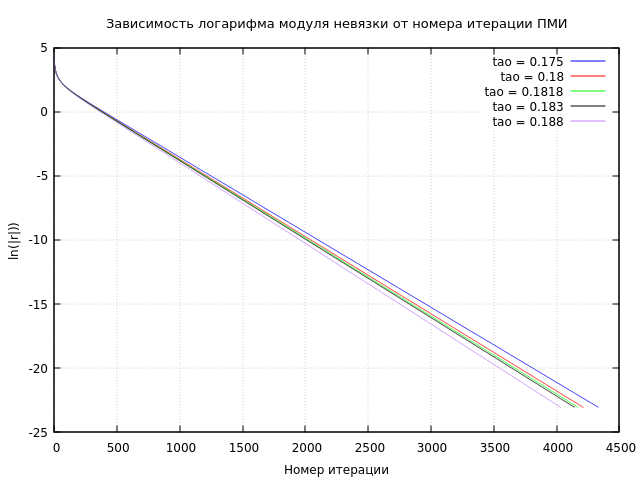
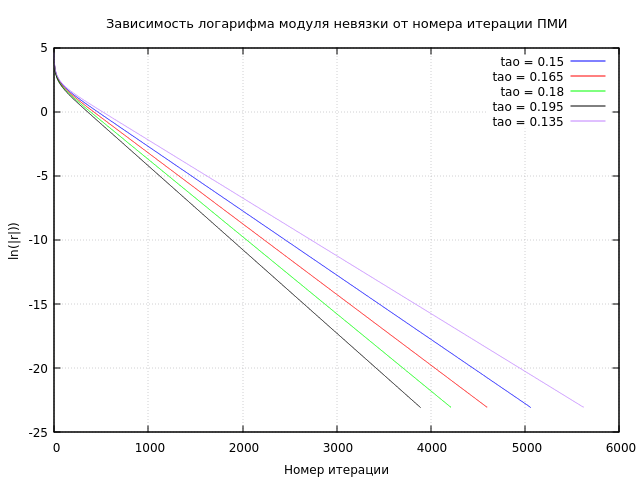
come changes

diff --git a/Tests/Tests.h b/Tests/Tests.h
@@ -19,6 +19,67 @@
 #include "../Sparse/CSR.h"
 #include "../Sparse/SimpleIteration.h"
 
+
+void testMultiply_Time(size_t dim){     //тест скорость умножения плотной и разреженной матрицы на вектор
+    std::vector<std::pair<int, double>> plotDataDense;
+    std::vector<std::pair<int, double>> plotDataCSR;
+    std::vector<double> d(dim);
+    std::vector<double> c(dim);
+    std::ofstream fout;
+    fout.open("../PlotData/MultiplyTime/Dense.txt", std::ios::out);
+    fout.close();
+    fout.open("../PlotData/MultiplyTime/CSR.txt", std::ios::out);
+    fout.close();
+    for(size_t i = 1; i<=dim*dim/2; ++i) {
+        std::set<Triplet<double>> in = GenerateMatrix_FilledNumber<double>(dim, i, -10000, 10000);
+        DenseMatrix<double> D(dim, dim, in);
+        CSR<double> C(dim, dim, in);
+        std::vector<double> b = GenerateVector<double>(dim, -10000, 10000);
+        clock_t end, start = clock();
+        d = D*b;
+        end = clock();
+        fout.open("../PlotData/MultiplyTime/Dense.txt", std::ios::app);
+        fout<<i<<" "<<double(end - start) / CLOCKS_PER_SEC<<"\n";
+        fout.close();
+        start = clock();
+        c = C*b;
+        end = clock();
+        fout.open("../PlotData/MultiplyTime/CSR.txt", std::ios::app);
+        fout<<i<<" "<<double(end - start) / CLOCKS_PER_SEC<<"\n";
+        fout.close();
+        std::cout<<d<<c<<std::endl;
+        std::cout<<i<<"\n";
+    }
+    Gnuplot gp;
+    gp<<"set xlabel 'Число ненулевых элементов' \n"
+        "set ylabel 'Время умножения'\n"
+        "set grid\n"
+        "set title 'Зависимость времени умножения матрицы на плотный вектор от заполненности' font 'Helvetica Bold, 10'\n";
+    gp << "plot '../PlotData/MultiplyTime/Dense.txt' with lines title 'Dense' lc rgb 'blue',"
+          "     '../PlotData/MultiplyTime/Dense.txt' with lines title 'CSR' lc rgb 'red'\n";
+}
+
+void testIterNumber_Tao(){
+    std::set<Triplet<double>> in;
+    std::vector<double> b(300);
+    for(size_t i = 1; i <= 300; ++i){
+        in.insert({double(i)/30, i-1, i-1});
+        b[i-1] = double(301-i)/30;
+    }
+    CSR<double> A = CSR<double>(300, 300, in);
+    for(int i = 1; i <= 500; ++i){
+        SimpleIteration(A, b, 0.19894 +  double(i) / 1000000);
+    }
+
+/*    Gnuplot gp;
+    gp<<"set xlabel 'Тао' \n"
+        "set ylabel 'Число итераций'\n"
+        "set xrange [0.03:0.22]\n"
+        "set grid\n"
+        "set title 'Зависимость числа итераций от Тао для схождения с точностью 1e-12' font 'Helvetica Bold, 10'\n";
+    gp << "plot '../PlotData/SimpleIteration/IterNumbTao.txt' with lines title 'Taо -> IterNumb' lc rgb 'blue'\n";*/
+}
+
 void testSimpleIteration_Speed(){
     std::set<Triplet<double>> in;
     std::vector<double> b(300);
@@ -28,22 +89,22 @@ void testSimpleIteration_Speed(){
     }
     CSR<double> A = CSR<double>(300, 300, in);
     //std::vector<double> tao = {0.01, 0.02, 0.03, 0.05, 0.07, 0.1, 0.13, 0.15, 0.17, 0.18, 0.185, 0.19, 0.20, 0.23, 0.26, 0.31, 0.4, 0.5, 0.6, 0.7, 0.8, 0.9};
-    std::cout<<SimpleIteration(A, b, 0.175);
+    std::cout<<SimpleIteration(A, b, 0.15);
+    std::cout<<SimpleIteration(A, b, 0.165);
     std::cout<<SimpleIteration(A, b, 0.18);
-    std::cout<<SimpleIteration(A, b, 0.1818);
-    std::cout<<SimpleIteration(A, b, 0.183);
-    std::cout<<SimpleIteration(A, b, 0.188);
+    std::cout<<SimpleIteration(A, b, 0.195);
+    std::cout<<SimpleIteration(A, b, 0.135);
 
     Gnuplot gp;
     gp<<"set xlabel 'Номер итерации' \n"
         "set ylabel 'ln(|r|))'\n"
         "set grid\n"
         "set title 'Зависимость логарифма модуля невязки от номера итерации ПМИ' font 'Helvetica Bold, 10'\n";
-    gp << "plot '../PlotData/SimpleIteration/SimpleIteration_Speed0.175000.txt' u 1:2 with lines title 'tao = 0.175' lc rgb 'blue', "
-          "     '../PlotData/SimpleIteration/SimpleIteration_Speed0.180000.txt' u 1:2 with lines title 'tao = 0.18' lc rgb 'red', "
-          "     '../PlotData/SimpleIteration/SimpleIteration_Speed0.181800.txt' u 1:2 with lines title 'tao = 0.1818' lc rgb 'green', "
-          "     '../PlotData/SimpleIteration/SimpleIteration_Speed0.183000.txt' with lines title 'tao = 0.183' lc rgb 'black', "
-          "     '../PlotData/SimpleIteration/SimpleIteration_Speed0.188000.txt' with lines title 'tao = 0.188' lc rgb 'purple'\n";
+    gp << "plot '../PlotData/SimpleIteration/SimpleIteration_Speed0.150000.txt' u 1:2 with lines title 'tao = 0.15' lc rgb 'blue', "
+          "     '../PlotData/SimpleIteration/SimpleIteration_Speed0.165000.txt' u 1:2 with lines title 'tao = 0.165' lc rgb 'red', "
+          "     '../PlotData/SimpleIteration/SimpleIteration_Speed0.180000.txt' u 1:2 with lines title 'tao = 0.18' lc rgb 'green', "
+          "     '../PlotData/SimpleIteration/SimpleIteration_Speed0.195000.txt' u 1:2 with lines title 'tao = 0.195' lc rgb 'black', "
+          "     '../PlotData/SimpleIteration/SimpleIteration_Speed0.135000.txt' u 1:2 with lines title 'tao = 0.135' lc rgb 'purple'\n";
 
 }
 

diff --git a/main.cpp b/main.cpp
@@ -14,6 +14,7 @@
 #include "Dense/ThomasAlgorithm.h"
 #include "Dense/LU.h"
 #include "Tests/Tests.h"
+#include "Dense/Householder.h"
 #include <ctime>
 #include <fstream>
 
@@ -26,7 +27,22 @@ int main() {
     CSR<int> K = CSR<int>(3, 3, in1);
     K.print();
     */
-    testSimpleIteration_Speed();
+
+    Gnuplot gp;
+    gp<<"set xlabel 'Число ненулевых элементов' \n"
+        "set ylabel 'Время умножения'\n"
+        "set xrange [0:150000]\n"
+        "set yrange [0:0.003]\n"
+        "set grid\n"
+        "set title 'Зависимость времени умножения матрицы на плотный вектор от заполненности' font 'Helvetica Bold, 10'\n";
+    gp << "plot '../PlotData/MultiplyTime/Dense.txt' u 1:2 with lines title 'Dense' lc rgb 'blue',"
+          "     '../PlotData/MultiplyTime/CSR.txt' u 1:2 with lines title 'CSR' lc rgb 'red'\n";
+/*    Gnuplot gp;
+    gp<<"set xlabel 'Тао' \n"
+        "set ylabel 'Число итераций'\n"
+        "set grid\n"
+        "set title 'Зависимость числа итераций от Тао для схождения с точностью 1e-12' font 'Helvetica Bold, 10'\n";
+    gp << "plot '../PlotData/SimpleIteration/EpsilonNumbTao.txt' with lines title 'Taо -> IterNumb' lc rgb 'blue'\n";*/
     return 0;
 }
 

diff --git a/Sparse/SimpleIteration.h b/Sparse/SimpleIteration.h
@@ -9,7 +9,6 @@
 #include "../utility/gnuplot-iostream.h"
 template<typename T>
 std::vector<T> SimpleIteration(const CSR<T> &A, const std::vector<T> &b, const T &tao){
-    using elm_t = typename CSR<T>::elm_t;
 
     std::vector<T> x(A.sizeH());
     std::vector<T> r = A * x - b;
@@ -25,6 +24,13 @@ std::vector<T> SimpleIteration(const CSR<T> &A, const std::vector<T> &b, const T
         std::cout<<N<<std::endl;
     }
 
+
+    std::ofstream fout;
+    fout.open("../PlotData/SimpleIteration/IterNumbTao.txt", std::ios::app);
+    fout<<tao<<" "<<i<<"\n";
+    fout.close();
+
+/*
     std::ofstream fout("../PlotData/SimpleIteration/SimpleIteration_Speed" + std::to_string(tao) + ".txt");
     for(auto k: plotData){
         fout<<k.first<<" "<<k.second<<"\n";
@@ -37,7 +43,7 @@ std::vector<T> SimpleIteration(const CSR<T> &A, const std::vector<T> &b, const T
         "set grid\n"
         "set title 'Зависимость логарифма модуля невязки от номера итерации ПМИ' font 'Helvetica Bold, 10'\n";
     gp << "plot '-' with lines title 'Iter->ln(|r|)' lc rgb 'blue'\n";
-    gp.send1d(plotData);
+    gp.send1d(plotData);*/
     return x;
 }
 

diff --git a/Generators/RandMatrixGenerator.h b/Generators/RandMatrixGenerator.h
@@ -20,4 +20,13 @@ std::set<Triplet<T>> GenerateMatrix(const size_t& size, const int &a, const int 
     return out;
 }
 
+template<typename T>
+std::set<Triplet<T>> GenerateMatrix_FilledNumber(const size_t &size, const size_t& filledNumber, const int &a, const int&b){
+    srand(time(0));
+    std::set<Triplet<T>> out;
+    while(out.size() < filledNumber){
+        out.insert({static_cast<T>(a + rand()%(b-a+1)), static_cast<size_t>(rand() % size), static_cast<size_t>(rand() % size)});
+    }
+    return out;
+}
 #endif //SOLECOURSE_RANDMATRIXGENERATOR_H

diff --git a/Dense/BackSubstitution.h b/Dense/BackSubstitution.h
@@ -14,7 +14,7 @@ std::vector<T> backSubstTopTriangular(const DenseMatrix<T> &A, const std::vector
     res.resize(b.size());
     res.back() = b.back()/A(A.sizeH()-1, A.sizeW()-1);
     T sum = 0;
-    for(int i = b.size()-2; i >= 0; --i){
+    for(int i = b.size()-2; i >= 0; --i){   //проход от предпоследнего элемента свободного столбца
         sum = 0;
         for(size_t j = i+1; j < b.size(); ++j){
             sum+=A(i, j)*res[j];

diff --git a/utility/Consts.h b/utility/Consts.h
@@ -7,7 +7,7 @@
 #include <cmath>
 
 template<typename T>
-[[maybe_unused]] const auto tolerance = static_cast<T>(1e-10);
+[[maybe_unused]] const auto tolerance = static_cast<T>(1e-13);
 
 template<typename T>
 T Tabs(T value){
@@ -20,6 +20,11 @@ T norm(const std::vector<T>& v){
     T sum = 0;
     for(auto i: v) sum+=i*i;
     return std::sqrt(sum);
+}
+
+template<typename T>
+int sgn(T val) {
+    return (T(0) < val) - (val < T(0));
 }
 
 #endif //SOLECOURSE_CONSTS_H

diff --git a/Sparse/CSR.h b/Sparse/CSR.h
@@ -12,11 +12,20 @@
 #include "algorithm"
 
 template<typename T>
+class CSR;
+
+template<typename T>
+std::vector<T> GaussSeidelMultiply(const CSR<T> &A, const std::vector<T> &b);
+
+template<typename T>
 class CSR{
 public:
     using elm_t = T;
     using idx_t = std::size_t;
 private:
+
+    friend std::vector<elm_t> GaussSeidelMultiply(const CSR<T> &A, const std::vector<T> &b);
+
     const idx_t H, W;
     std::vector<elm_t> values;
     std::vector<idx_t> cols;

diff --git a/utility/Overloads.h b/utility/Overloads.h
@@ -41,6 +41,15 @@ std::vector<T> operator-(const std::vector<T>& fVec, const std::vector<T>& sVec)
 }
 
 template<typename T>
+T operator*(const std::vector<T>& a, const std::vector<T>& b){
+    auto res = static_cast<T>(0);
+    for(size_t i = 0; i < a.size(); ++i){
+        res += a[i]*b[i];
+    }
+    return res;
+}
+
+template<typename T>
 std::ostream& operator<<(std::ostream& os, const std::vector<T>& b){
     os<<"( ";
     for(auto i: b){

diff --git a/Dense/ThomasAlgorithm.h b/Dense/ThomasAlgorithm.h
@@ -27,7 +27,7 @@ std::vector<T> ThomasAlgorithm(DenseMatrix<T> A, std::vector<T> B){
     a[0] = -A(0, 1) / y;
     b[0] = B[0] / y;
 
-    for(idx_t i = 0; i < N-1; ++i){
+    for(idx_t i = 1; i < N-1; ++i){
         try{
             y = A(i, i) + A(i, i-1) * a[i-1];
             if (Tabs(y) < tolerance<T>) throw "Метод ThomasAlgo не сходится.";
